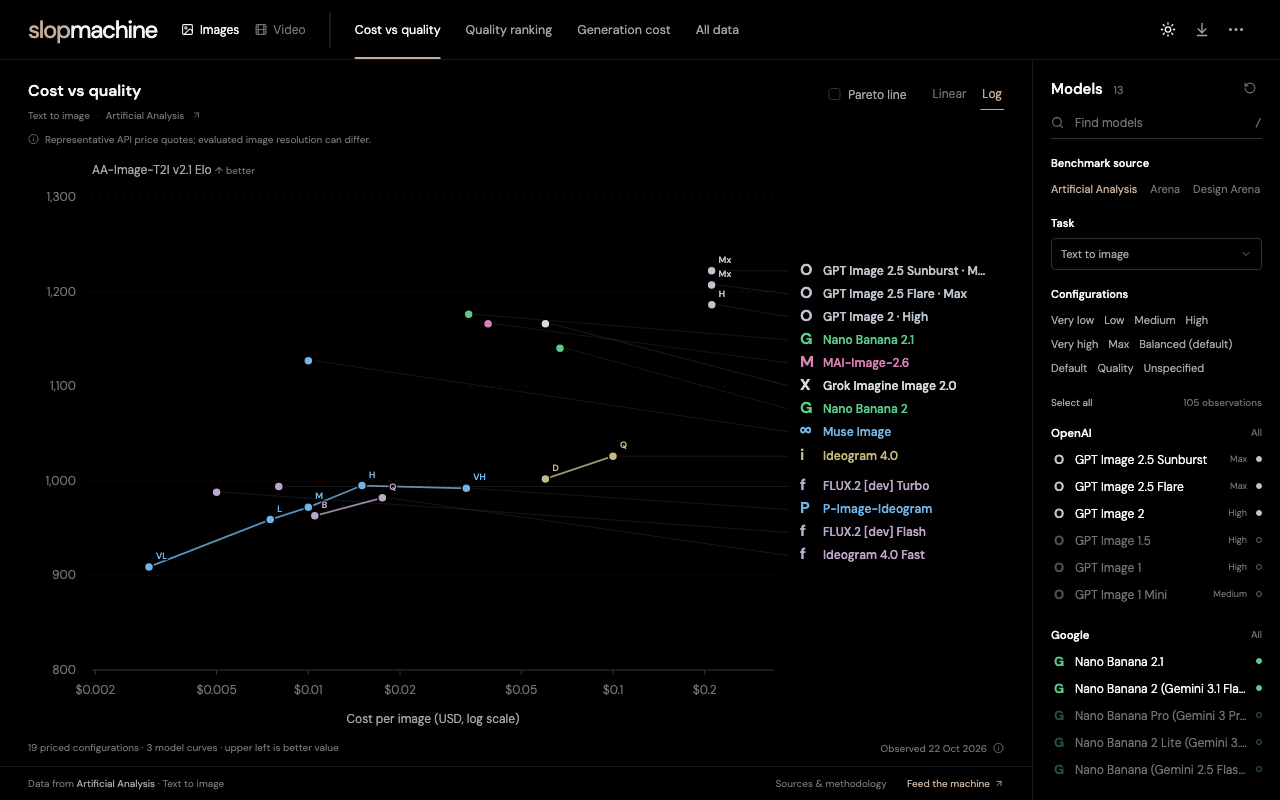
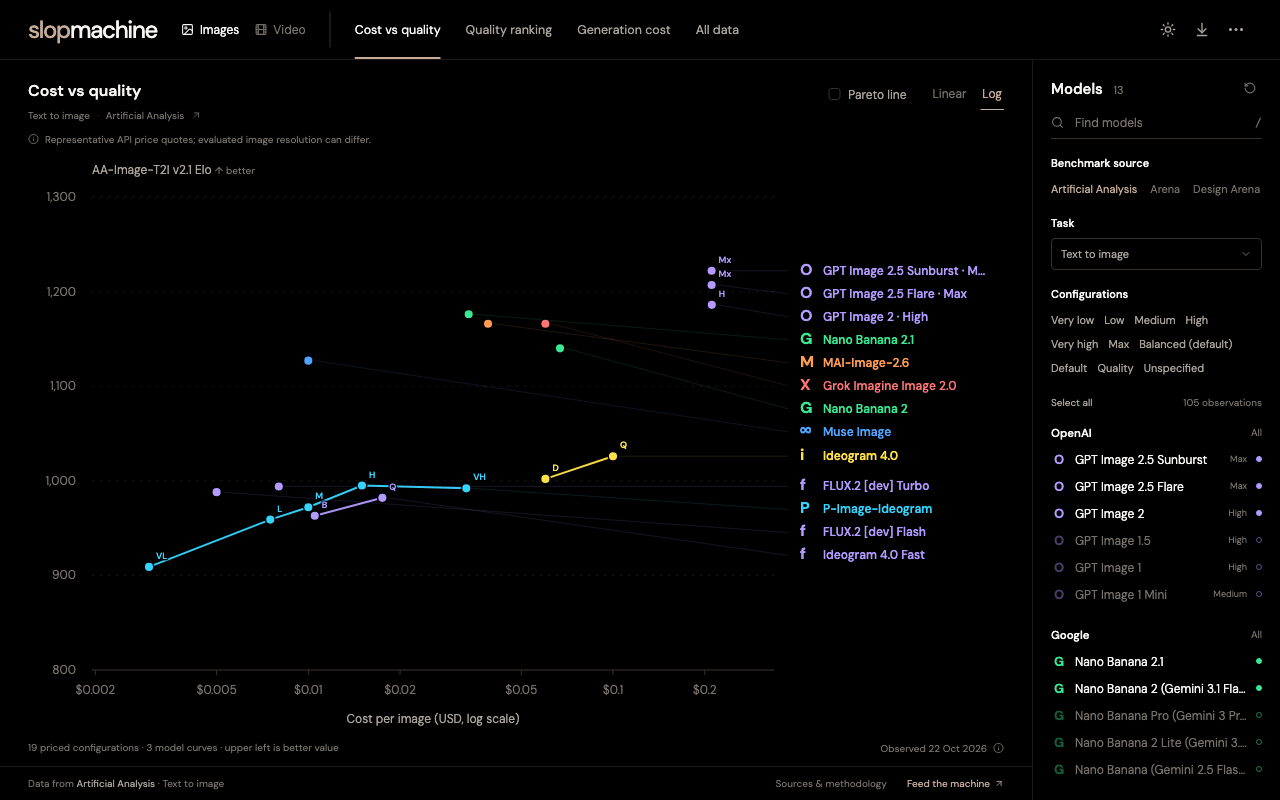
Use vivid chart colors in both themes

diff --git a/src/styles.css b/src/styles.css
@@ -12,7 +12,7 @@
 @media(max-width:540px){.app{min-height:530px}.app-header{padding:0 15px;grid-template-columns:auto 1fr auto}.brand{font-size:21px;letter-spacing:-1.1px}.media-tabs{margin-left:20px;gap:14px}.media-tabs button{font-size:11px}.media-tabs svg{display:none}.view-tabs{margin:0 -15px;padding:0 15px;gap:24px}.view-tabs button{font-size:11px}.header-actions>.icon-button{width:28px}.settings summary{width:27px}.mobile-filter-button{margin-left:5px;gap:5px}.mobile-filter-button span{display:none}.mobile-filter-button small{font-size:10px}.settings-popover{right:-35px}.chart-section{padding:15px 15px 0}.chart-heading{gap:8px;min-height:48px}.chart-controls{gap:11px}.check-button{font-size:10px;gap:6px}.checkbox{width:11px;height:11px}.chart-scale{gap:9px}.chart-scale button{font-size:11px}.benchmark-context{font-size:9px;gap:5px;line-height:15px;flex-wrap:wrap}.benchmark-context svg{display:none}h1{font-size:15px;line-height:23px}.chart-caption{font-size:9px;flex-wrap:wrap;gap:6px;padding-bottom:12px}.chart-caption button{font-size:9px}.axis-title{font-size:10px}.axis-hint{font-size:9px}.axis-tick{font-size:10px}.chart-tooltip{left:45px;bottom:85px;width:220px;padding:12px}.chart-tooltip strong{font-size:11px}.bar-label,.bar-value{font-size:10px}.rank-number{font-size:9px}.quantity-control{font-size:10px;gap:5px}.quantity-control input{width:46px;font-size:11px}footer{padding:10px 15px;font-size:9px}footer button{font-size:9px}footer>div{gap:10px}footer>div>a{font-size:9px}.modal{padding:20px;max-width:calc(100vw - 24px);max-height:calc(100dvh - 35px)}.modal-heading h2{font-size:16px}.detail-stats{gap:10px}.detail-stats strong{font-size:25px}.detail-stats span{font-size:9px}.detail-list{font-size:11px}.source-list>a{gap:8px}.source-list strong{font-size:11px}.source-list span{font-size:9px}.source-list b{font-size:10px}.source-list>a>div:nth-child(2){flex:.85}.tag{font-size:9px}th,td{padding:10px}.table-model{font-size:11px}.table-wrap table{font-size:11px}.toast{font-size:11px;padding:11px 15px}}
 @media(prefers-reduced-motion:reduce){*,*::before,*::after{transition:none!important;scroll-behavior:auto!important}}
 .compact-label .model-label{font-size:9px}.compact-label .provider-mark{font-size:12px}
-:root[data-theme=light] .model-label{fill:var(--fg2)}:root[data-theme=light] .bar-value{fill:var(--fg)}
+:root[data-theme=light] .bar-value{fill:var(--fg)}
 .source-switch{flex-wrap:wrap}
 .source-qualification{display:flex;align-items:center;gap:6px;flex-shrink:0;text-align:left;font-size:10px;line-height:1.6;color:var(--fg3);margin:-3px 0 10px}
 .setting-point-label{font-size:9px;font-weight:550;pointer-events:none;paint-order:stroke;stroke:var(--bg);stroke-width:3px;stroke-linejoin:round}.configuration-filters{display:flex;flex-direction:column;gap:7px}.configuration-filters[hidden]{display:none}.configuration-filters h3{font-size:11px;font-weight:550}.configuration-filters>div{display:flex;flex-wrap:wrap;gap:2px 10px}.configuration-filters button{color:var(--fg2);font-size:11px;min-height:22px}.configuration-filters button[aria-pressed=false]{color:var(--fg3);text-decoration:line-through}.configuration-count{font-size:9px;color:var(--fg3);font-variant-numeric:tabular-nums}.configuration-summary{display:flex;justify-content:space-between;gap:10px;color:var(--fg3);font-size:10px;line-height:1.7}.configuration-table{margin-top:18px;border-top:1px solid var(--line);padding-top:16px}.configuration-table h3{font-size:12px;font-weight:550;margin-bottom:10px}.configuration-table>button{display:grid;grid-template-columns:minmax(0,1fr) 80px 80px;gap:12px;align-items:center;width:100%;text-align:left;font-size:12px;border-bottom:1px solid var(--line);padding:10px 0;color:var(--fg2)}.configuration-table>button>span:not(:first-child){text-align:right;font-variant-numeric:tabular-nums}.configuration-table>button.current{color:var(--accent)}
@@ -21,3 +21,7 @@
 .pricing-chart{margin:24px 0}.pricing-row{display:grid;grid-template-columns:75px minmax(0,1fr) 77px;gap:12px;align-items:center;min-height:39px;font-size:12px;color:var(--fg2)}.pricing-row>div{height:10px}.pricing-row i{height:100%;min-width:2px;display:block;border-radius:1px;opacity:.8}.pricing-row b{text-align:right;font-weight:450;font-variant-numeric:tabular-nums}.modal .task-select>select{width:100%;font-size:12px;padding:8px;color:var(--fg2);background:var(--surface);border:1px solid var(--line2);border-radius:4px}
 
 .pricing-export{display:flex;margin-top:16px}
+
+:root{--chart-purple:#b29aff;--chart-orange:#ff9c52;--chart-green:#38e992;--chart-blue:#4ea4ff;--chart-cyan:#33d5ff;--chart-yellow:#ffe04a;--chart-pink:#ff67ad;--chart-teal:#32e3cb;--chart-lime:#b2ec56;--chart-red:#ff7474}
+:root[data-theme=light]{--chart-purple:#6d40cc;--chart-orange:#b94b00;--chart-green:#0e7d42;--chart-blue:#1267c3;--chart-cyan:#007b9b;--chart-yellow:#846a00;--chart-pink:#bb2873;--chart-teal:#007f70;--chart-lime:#567b00;--chart-red:#c33142}
+.pricing-row i{opacity:.95}

diff --git a/src/Charts.tsx b/src/Charts.tsx
@@ -75,7 +75,7 @@ export function ScatterChart({ models, board, log, pareto, labels, confidence, c
       {xticks.map(t => <g key={t}><line className="axis-line" x1={x(t)} x2={x(t)} y1={bottom} y2={bottom + 5} /><text className="axis-tick" x={x(t)} y={bottom + 24} textAnchor="middle">{money(t)}</text></g>)}
       <text className="axis-title" x={(left + plotRight) / 2} y={height - 9} textAnchor="middle">Cost per {board.priceUnit} (USD{log ? ', log scale' : ''})</text>
       {pareto && <polyline data-testid="pareto-line" points={frontierModels.map(m => `${x(m.price!)},${y(m.score)}`).join(' ')} fill="none" stroke="var(--accent)" strokeWidth={1.5} strokeDasharray="4 5" opacity={0.7} />}
-      {connected && groups.filter(group => group.series && group.models.length >= 2).map(group => <polyline key={group.id} data-configuration-series={group.id} aria-label={`${group.name}: measured ${group.series!.dimension} configurations`} points={group.models.map(model => `${x(model.price!)},${y(model.score)}`).join(' ')} fill="none" stroke={identity(group.models[0].provider)[0]} strokeWidth={hoveredSeries === group.id ? 2.5 : 1.8} opacity={!hovered || hoveredSeries === group.id ? 0.8 : 0.15} />)}
+      {connected && groups.filter(group => group.series && group.models.length >= 2).map(group => <polyline key={group.id} data-configuration-series={group.id} aria-label={`${group.name}: measured ${group.series!.dimension} configurations`} points={group.models.map(model => `${x(model.price!)},${y(model.score)}`).join(' ')} fill="none" stroke={identity(group.models[0].provider)[0]} strokeWidth={hoveredSeries === group.id ? 2.8 : 2} opacity={!hovered || hoveredSeries === group.id ? 0.96 : 0.15} />)}
       {data.map(m => {
         const [color] = identity(m.provider);
         const configuration = configurationFor(board, m.id);
@@ -85,7 +85,7 @@ export function ScatterChart({ models, board, log, pareto, labels, confidence, c
           {labels && labelY.has(m.id) && <path d={`M${px + 6},${py} L${plotRight + (compact ? 7 : 14)},${labelY.get(m.id)}`} fill="none" stroke={color} strokeWidth={0.6} opacity={hovered === m.id ? 0.8 : 0.22} />}
           <g role="button" tabIndex={0} aria-label={`${m.name}, ${board.scoreType} ${m.score}, ${money(m.price!)} per ${board.priceUnit}`} onMouseEnter={() => setHovered(m.id)} onMouseLeave={() => setHovered(null)} onFocus={() => setHovered(m.id)} onBlur={() => setHovered(null)} onClick={() => onInspect(m)} onKeyDown={e => { if (e.key === 'Enter' || e.key === ' ') { e.preventDefault(); onInspect(m); } }} className="chart-point">
             <circle cx={px} cy={py} r={13} fill="transparent" />
-            <circle cx={px} cy={py} r={hovered === m.id ? 6 : 4.5} fill={color} stroke="var(--bg)" strokeWidth={1.5} />
+            <circle cx={px} cy={py} r={hovered === m.id ? 6 : 4.8} fill={color} stroke="var(--bg)" strokeWidth={1.5} />
             {connected && configuration && (!compact || hovered === m.id) && <text className="setting-point-label" x={px + 7} y={py - 8} fill={color} aria-hidden="true">{settingSymbol(configuration.point.label)}</text>}
             {hovered === m.id && <circle cx={px} cy={py} r={10} fill="none" stroke={color} strokeWidth={1} opacity={0.5} />}
           </g>
@@ -127,7 +127,7 @@ export function BarChart({ models, board, cost, confidence, quantity, onInspect 
         <text className="rank-number" x={compact ? 0 : 8} y={cy + 4}>{cost ? i + 1 : m.rank}</text>
         {!compact && <text className="provider-mark" x={32} y={cy + 4} fill={color}>{mark}</text>}
         <text className="bar-label" x={compact ? 23 : 58} y={cy + 4}>{barLabel(m, board, compact ? 20 : 29)}</text>
-        <rect x={left} y={cy - 5} width={Math.max(2, x(value) - left)} height={10} rx={1} fill={color} opacity={0.72} />
+        <rect x={left} y={cy - 5} width={Math.max(2, x(value) - left)} height={10} rx={1} fill={color} opacity={0.92} />
         {!cost && confidence && m.confidenceLow !== null && m.confidenceHigh !== null && <g stroke={color} strokeWidth={1.5}><line x1={x(m.confidenceLow)} x2={x(m.confidenceHigh)} y1={cy} y2={cy} /><line x1={x(m.confidenceLow)} x2={x(m.confidenceLow)} y1={cy - 6} y2={cy + 6} /><line x1={x(m.confidenceHigh)} x2={x(m.confidenceHigh)} y1={cy - 6} y2={cy + 6} /></g>}
         <text className="bar-value" x={right + 12} y={cy + 4} fill={color}>{cost ? money(value) : number(value)}</text>
       </g>; })}

diff --git a/src/data.ts b/src/data.ts
@@ -1,14 +1,17 @@
 import type { ConfigurationSeries, Leaderboard, Model } from './types';
 
-const palette = ['#b9c1cb', '#df9676', '#65c78c', '#a89bef', '#71b5e8', '#d6bd70', '#d883b3', '#85c2c0', '#b4a4dc', '#c1b4a6'];
+const colors = ['purple', 'orange', 'green', 'blue', 'cyan', 'yellow', 'pink', 'teal', 'lime', 'red'];
+const palette = colors.map(color => `var(--chart-${color})`);
+const color = (name: string) => `var(--chart-${name})`;
 const providers: Record<string, [string, string]> = {
-  openai: ['#bdc5cf', 'O'], google: ['#58cd89', 'G'], 'black forest labs': ['#e39978', 'F'],
-  bytedance: ['#a99df0', 'B'], kuaishou: ['#dfb465', 'K'], kling: ['#dfb465', 'K'],
-  alibaba: ['#c09cdb', 'Q'], 'xai': ['#ddd9d5', 'X'], spacexai: ['#ddd9d5', 'X'],
-  runway: ['#9bc4b7', 'R'], 'recraft': ['#e2a48c', 'r'], tencent: ['#7ab7dc', 'T'],
-  ideogram: ['#c5bb82', 'i'], midjourney: ['#9dc8dd', 'M'], 'luma': ['#a0b4df', 'L'],
-  minimax: ['#dc92af', 'm'], 'z.ai': ['#8ebda8', 'Z'], 'fal': ['#bda8c9', 'f'],
-  bfl: ['#e39978', 'F'], meta: ['#71b5e8', '∞'],
+  openai: [color('purple'), 'O'], google: [color('green'), 'G'], 'black forest labs': [color('orange'), 'F'],
+  bytedance: [color('blue'), 'B'], kuaishou: [color('yellow'), 'K'], kling: [color('yellow'), 'K'],
+  alibaba: [color('pink'), 'Q'], xai: [color('red'), 'X'], spacexai: [color('red'), 'X'],
+  runway: [color('teal'), 'R'], recraft: [color('red'), 'r'], tencent: [color('cyan'), 'T'],
+  ideogram: [color('yellow'), 'i'], midjourney: [color('cyan'), 'M'], luma: [color('purple'), 'L'],
+  minimax: [color('pink'), 'm'], 'z.ai': [color('lime'), 'Z'], fal: [color('purple'), 'f'],
+  bfl: [color('orange'), 'F'], meta: [color('blue'), '∞'], microsoft: [color('orange'), 'M'],
+  pruna: [color('cyan'), 'P'],
 };
 export function identity(provider: string): [string, string] {
   const key = provider.toLowerCase();

diff --git a/AGENTS.md b/AGENTS.md
@@ -13,9 +13,10 @@ Slop Machine compares image and video generation models using attributed public 
 - `npm run data:refresh -- --source aa`: scrape public AA tables with the optional browser setup in `docs/DATA.md`.
 
 ## Current status
-Implemented and locally verified. The catalog has 800 observations in 19 pools across Artificial Analysis, Arena, Design Arena, World Model Arena, and Video Arena (MemeBench), with 480 prices or source quotes. A separate provider-pricing input contains 115 quotes in 34 configuration groups. Research lives in `research/`; the browser consumes `public/data/catalog.json`. Source observations and leaderboard publication dates must remain distinct. The authorized public repository is `Zer0codestuff/slop-machine`.
+Implemented and locally verified. The catalog has 800 observations in 19 pools across Artificial Analysis, Arena, Design Arena, World Model Arena, and Video Arena (MemeBench), with 480 prices or source quotes. A separate provider-pricing input contains 115 quotes in 34 configuration groups. Research lives in `research/`; the browser consumes `public/data/catalog.json`. Source observations and leaderboard publication dates must remain distinct. The authorized public repository is `Zer0codestuff/slopmachine`.
 
 ## Recent changes
+- Replaced the muted provider palette with saturated chart colors, stronger configuration lines, and more opaque cost bars. Light mode uses darker equivalents for readable colored labels. The user rejected washed-out chart colors.
 - Added explicit configuration families, low/medium and native-mode filters, connected setting curves, family toggles, sibling details, and configuration metadata in CSV/PNG exports. Defaults include complete measured families, and switching media prefers a pool with measured configuration curves.
 - Added the 51-row Design Arena image-editing pool. Refreshed all 82 AA silent I2V rows on October 23, preserving source prices even when they differ from creator lists. The two Kling 3.0 Pro quotes are now $0.112/s; Veo 3.1 Lite has no reported price.
 - Added separate provider-setting cost charts and CSV exports for unscored configurations, with source conditions and exact quoted precision.
@@ -27,7 +28,7 @@ Implemented and locally verified. The catalog has 800 observations in 19 pools a
 - Visually checked desktop and narrow mobile layouts. A source-reported zero price is retained; zero-price models are excluded from logarithmic axes with a visible notice and included on linear axes.
 
 ## Preferences and constraints
-- Keep the full-screen chart, narrow model sidebar, black default theme, restrained provider colors, and DM Sans typography.
+- Keep the full-screen chart, narrow model sidebar, black default theme, vivid, saturated provider colors with theme-aware contrast, and DM Sans typography.
 - Keep different sources, tasks, benchmark versions, and audio conditions in separate scoring pools.
 - Configuration membership must be explicit and board-local. Connect at least two visible measured points in setting order, including non-monotonic scores. Provider-only prices have no attached Elo score.
 - Attribute every observation. Show missing prices as unavailable and exclude them from cost charts.
@@ -41,6 +42,7 @@ Implemented and locally verified. The catalog has 800 observations in 19 pools a
 - Imply a snapshot is a live feed, or that overlapping confidence intervals prove a ranking difference.
 - Compare image prices directly with video prices or combine Elo scores from different pools.
 - Add decorative imagery, marketing sections, or a second visual identity.
+- Restore the muted provider palette or weaken series colors with low default opacity.
 - Publish credentials or authenticated source responses.
 - Require an AA API key for this project. The collection workflow uses public browser pages.
 - Treat a catalog rebuild as a fresh source collection or automatically publish refreshed data without reviewing its source changes.
@@ -50,4 +52,4 @@ Implemented and locally verified. The catalog has 800 observations in 19 pools a
 - Arena's public website can return security verification; use its official public leaderboard dataset as documented.
 - GPT Image 2/2.5 have no verified multi-quality series in a single bundled pool. Their low/medium provider prices appear in the separate unscored chart. Design Arena generation Low/Medium response-only points and historical Arena Grok observations remain research evidence, not ranked catalog entries.
 - Some sources omit confidence intervals, prices, or publication dates. Preserve nulls and source-specific qualifications.
-- No hosted website deployment has been requested. `dist/` is ready for static hosting; the local preview uses port 4173.
+- GitHub Pages publication was requested at `https://gabrielemonni.me/slopmachine/`. The public repository is `Zer0codestuff/slopmachine`; Pages inherits the custom domain from the existing user site. Deployment setup is in progress. The local preview uses port 4173.
